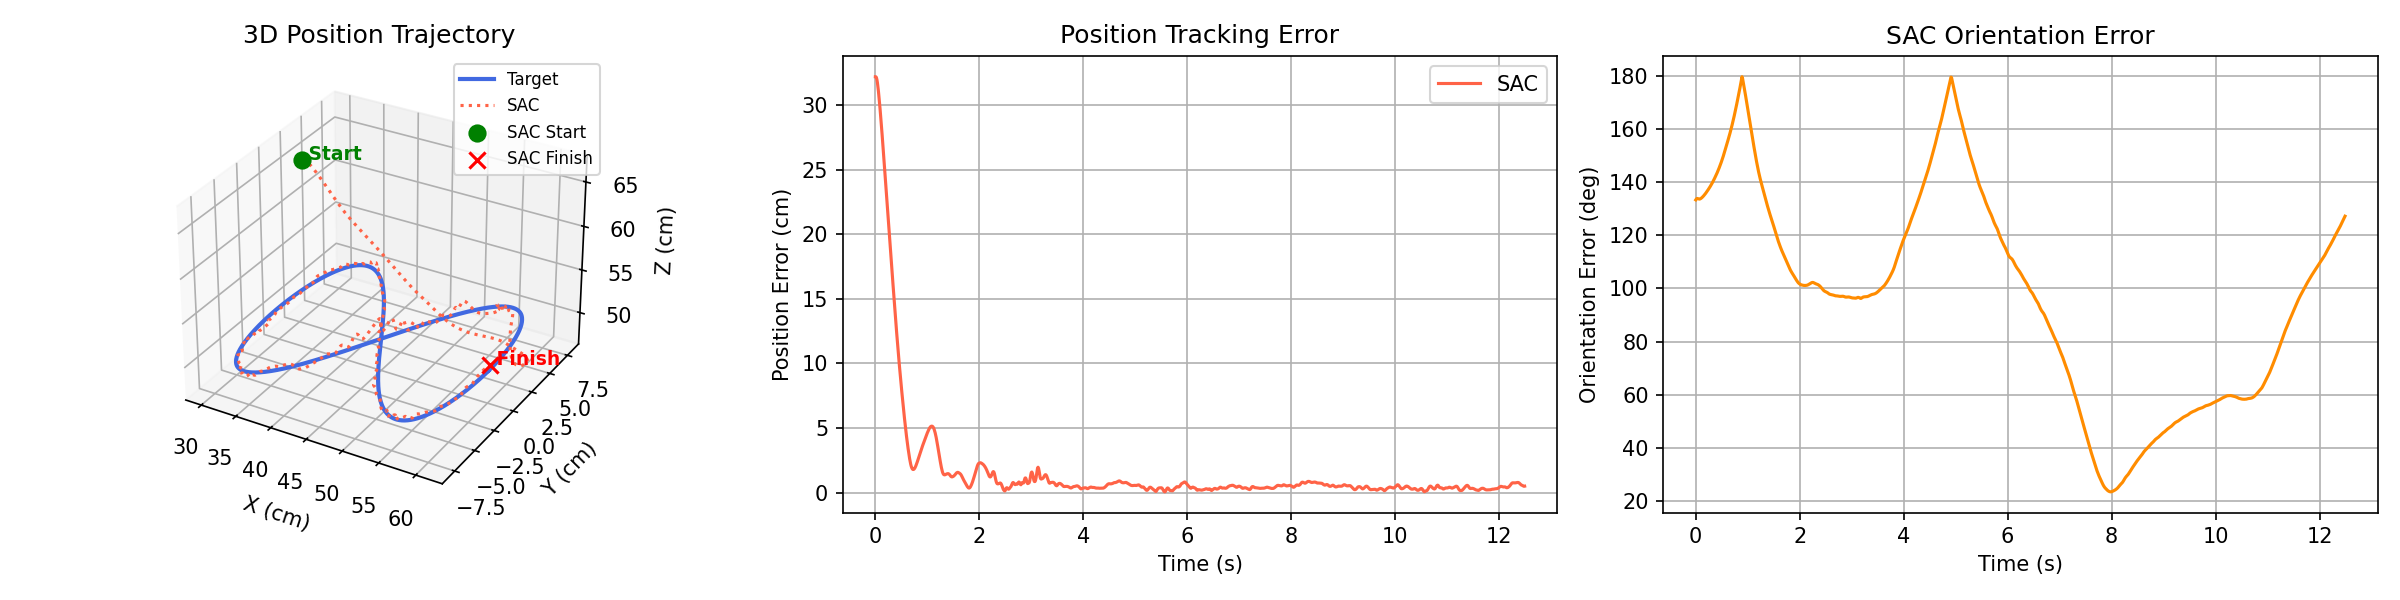
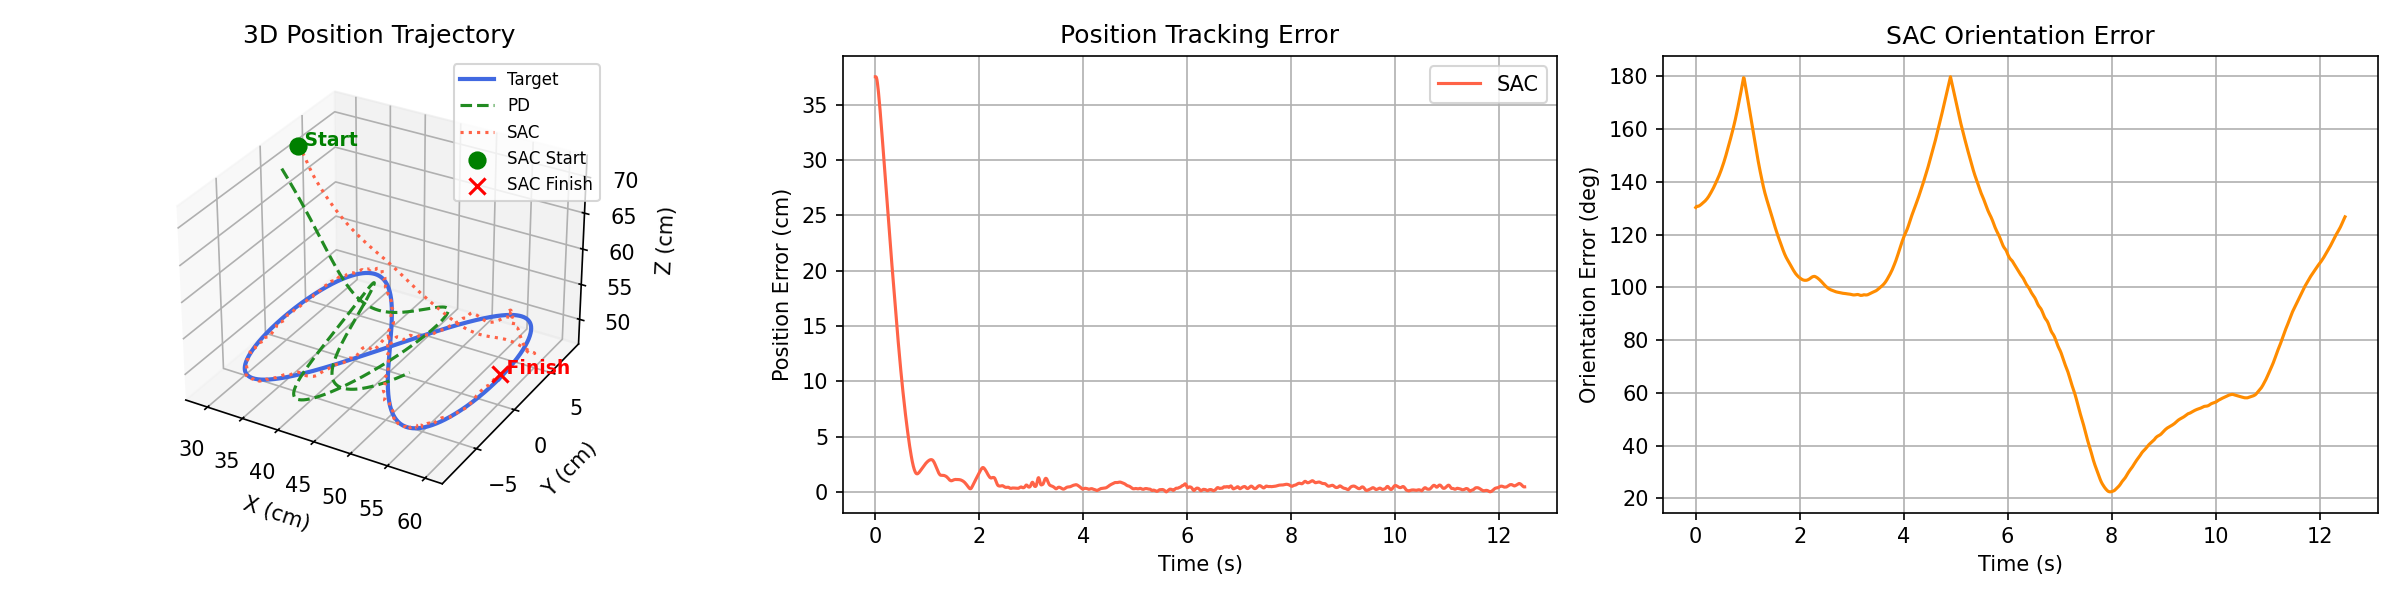
Acknowledge orientation convergence tradeoff

diff --git a/README.md b/README.md
@@ -74,7 +74,7 @@ I measure:
 * **Orientation MSE:** 2.78 rad²
 * **Jerk RMS:** 439.2 rad/s³
 
-The SAC agent achieves true sub-centimeter tracking accuracy against a moving target in 3D space, despite simulated sensor noise and control latency.
+The SAC agent achieves true sub-centimeter tracking accuracy against a moving target in 3D space, despite simulated sensor noise and control latency. Orientation tracking is included as a curriculum extension and shows partial convergence at 1.5M steps — position accuracy was prioritised.
 
 ### Tracking Performance
 <p align="center">